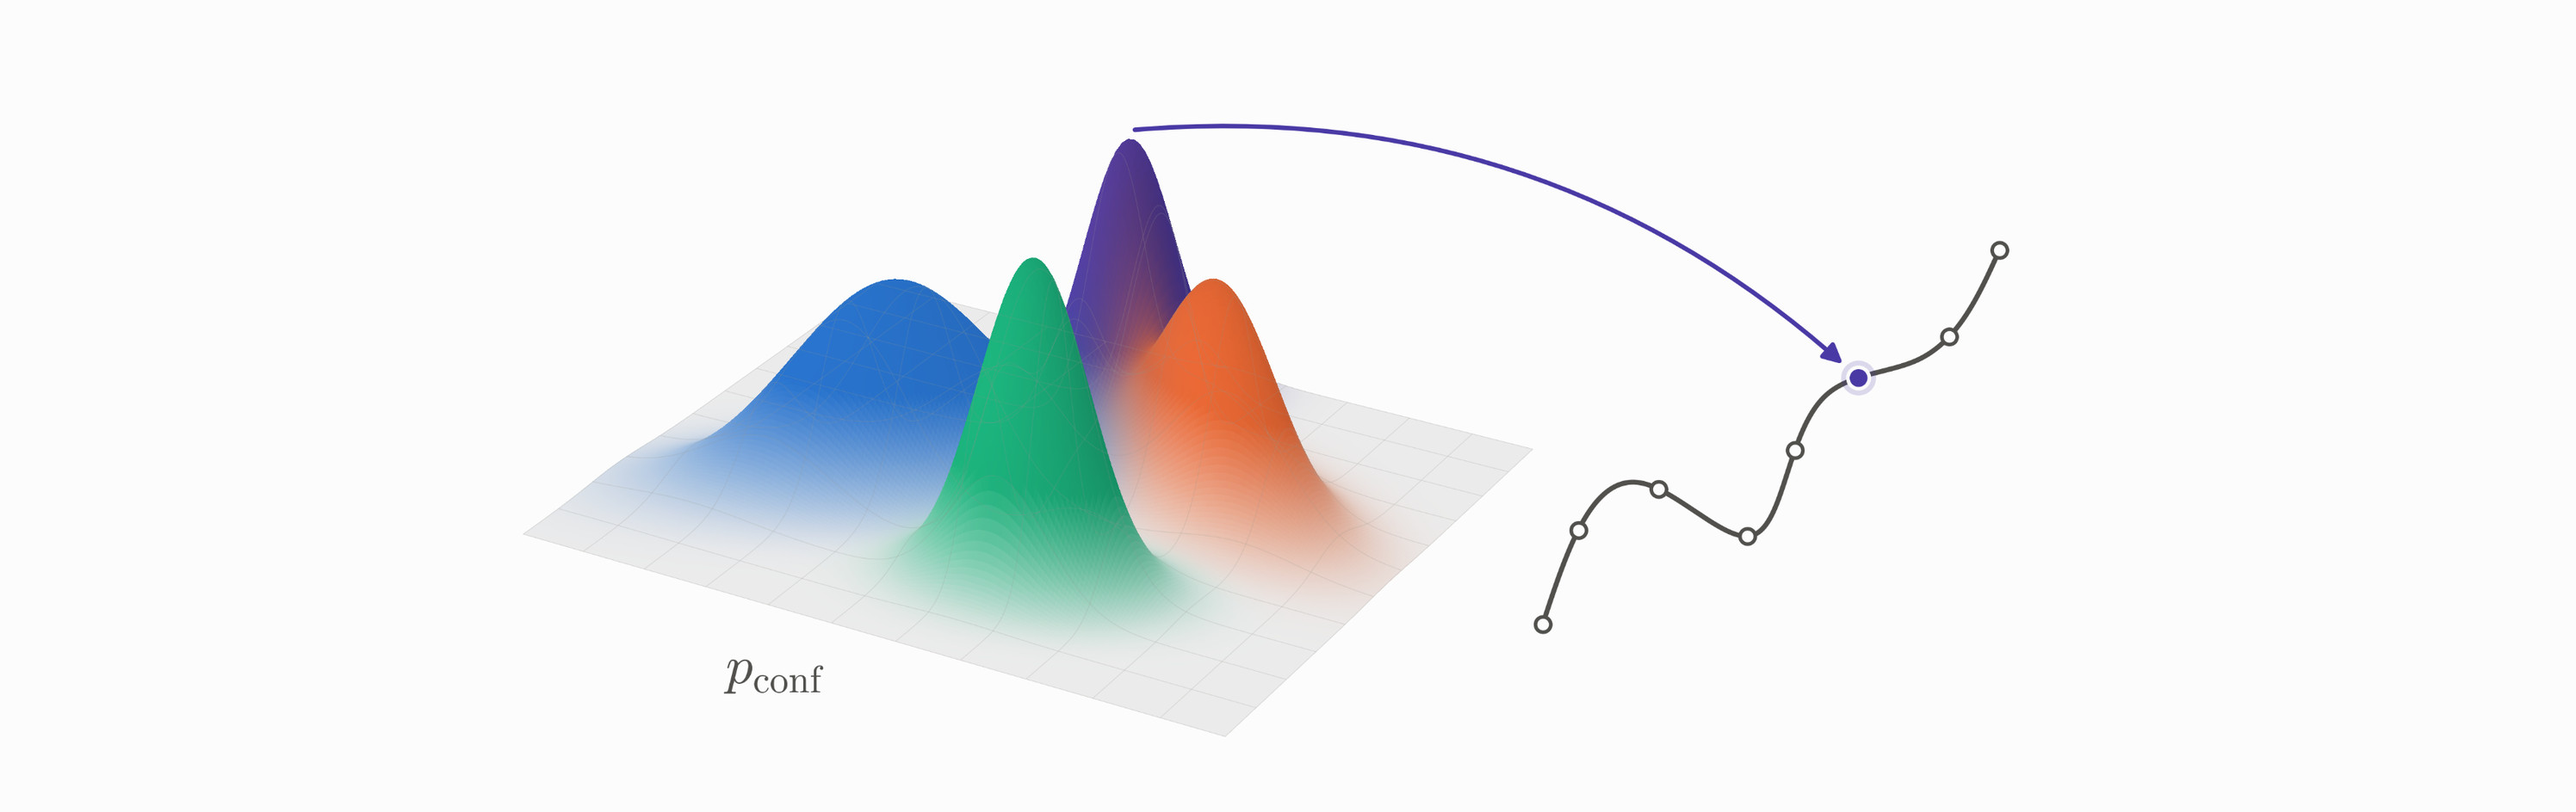
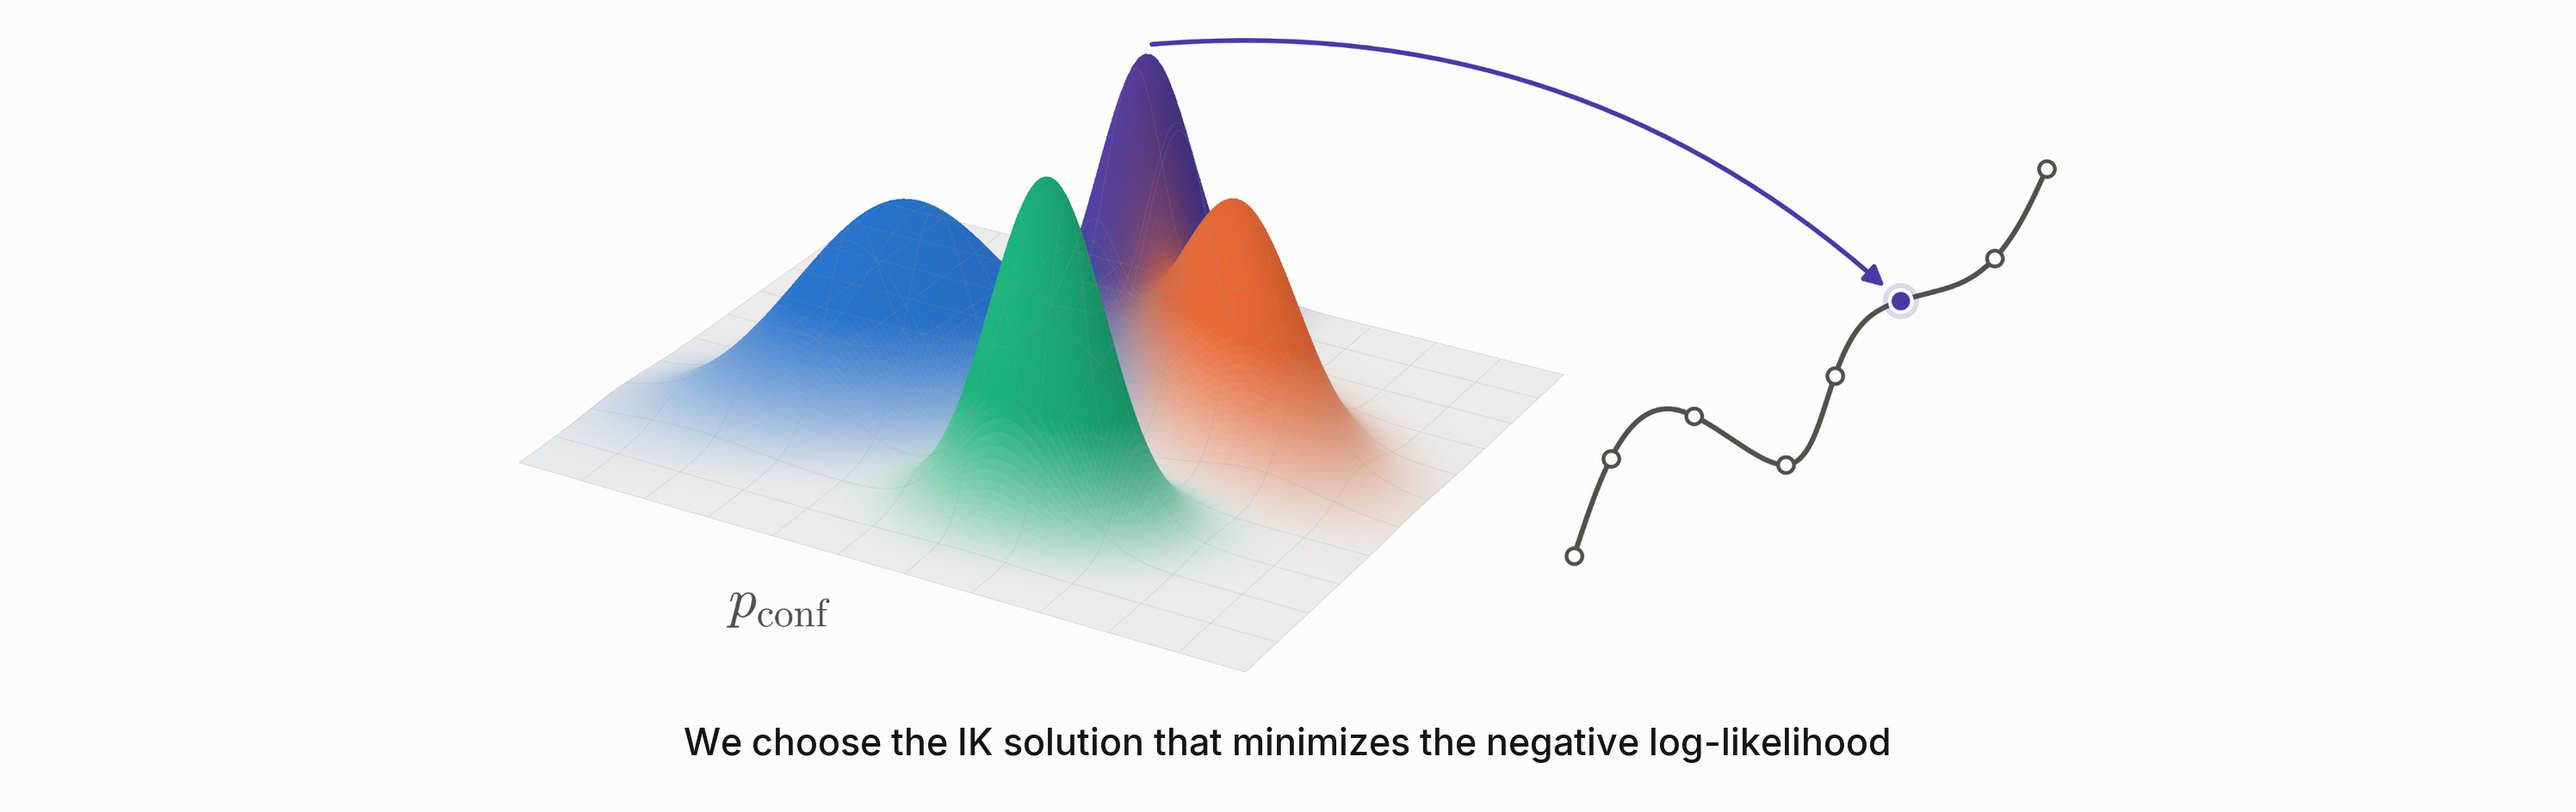
Caption the endpoint selection figure

diff --git a/index.html b/index.html
@@ -122,7 +122,7 @@
     <div class="vid-card">
       <figure class="vid">
         <div class="vid-hd">1 &middot; Endpoint selection</div>
-        <img class="wide" src="static/images/endpoint-selection.jpg" width="2992" height="944" loading="lazy" alt="A density over robot joint configurations with several peaks; an arrow runs from the highest peak to the configuration selected on the trajectory." />
+        <img class="wide" src="static/images/endpoint-selection.jpg" width="2992" height="944" loading="lazy" alt="A density over robot joint configurations with several peaks; an arrow runs from the highest peak to the configuration selected on the trajectory. Caption: We choose the IK solution that minimizes the negative log-likelihood." />
       </figure>
       <figure class="vid">
         <div class="vid-hd">2 &middot; Path optimization</div>
